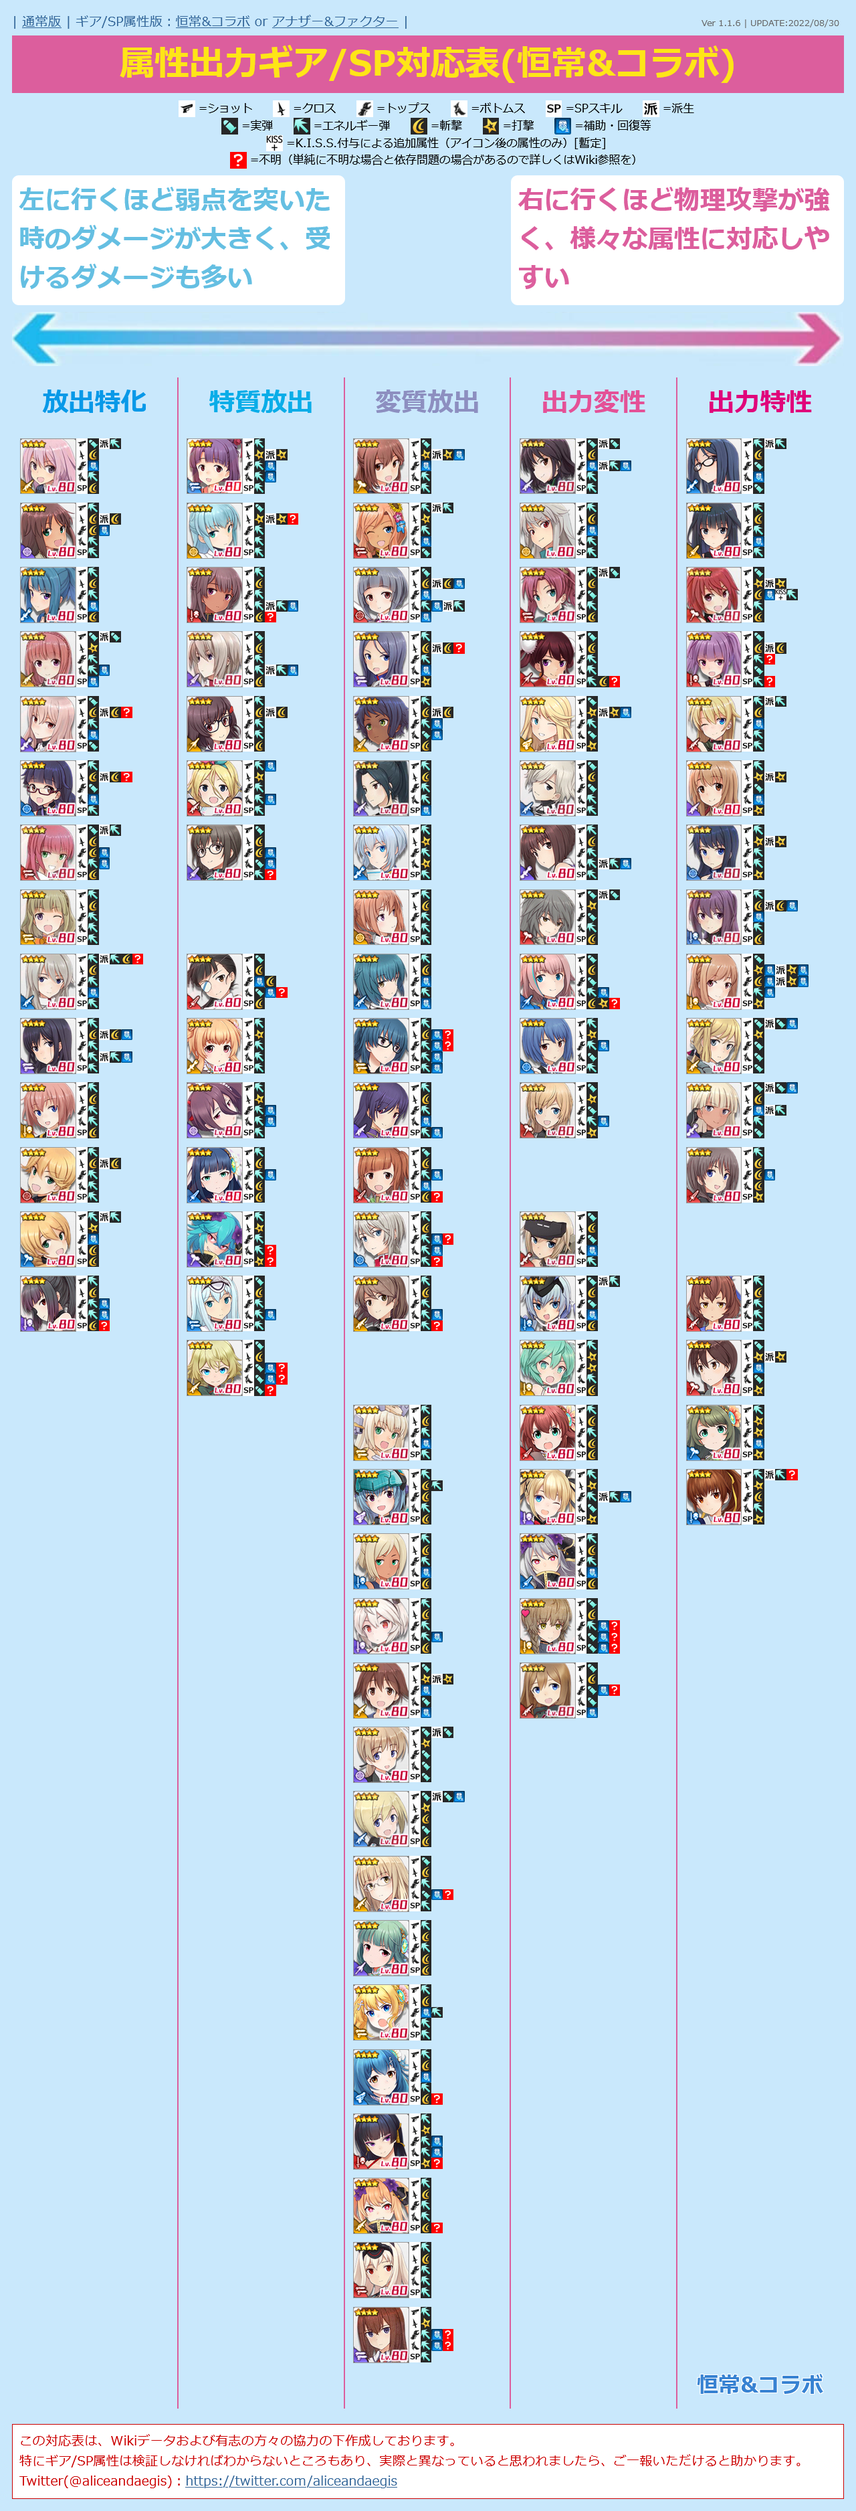
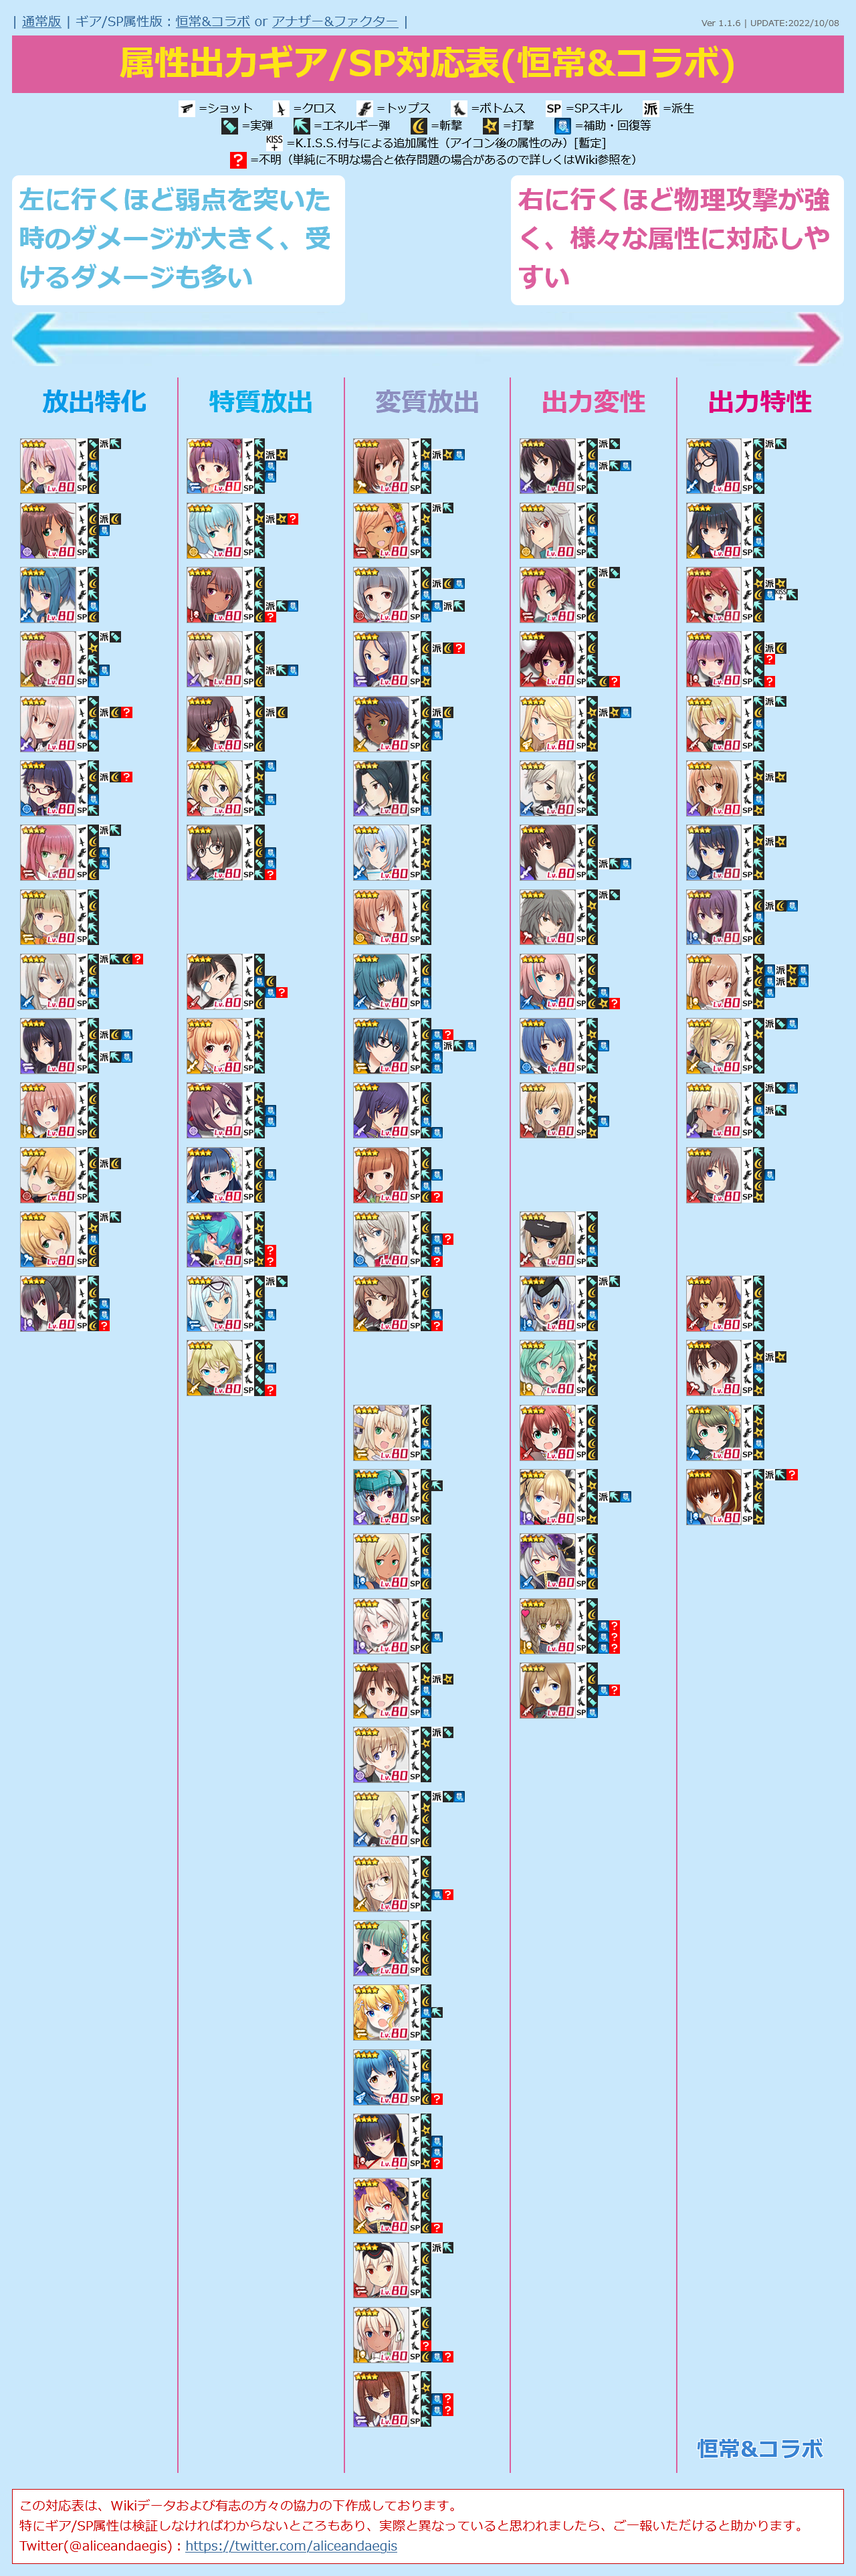
UPDATE charadata
・コラボキャラ　イブリー・ハッドを追加

Changed region(s): [[0.0, 0.0, 1.0, 0.9979], [0.8125, 0.9355, 0.9688, 0.9667]]

diff --git a/alice.html b/alice.html
@@ -12,7 +12,7 @@
   <script>
 
 /* 更新情報 必要に応じて書き換えてください */
-  var version = "Ver 1.1.6 | UPDATE:2022/09/21";
+  var version = "Ver 1.1.6 | UPDATE:2022/10/08";
 
 
 /*
@@ -2059,7 +2059,7 @@
       "type": "3",
       "src": "normal-ait.png",
       "name": "AIT Ti2",
-      "equip1": "2",
+      "equip1": "2/2",
       "equip2": "3",
       "equip3": "2",
       "equip4": "2",
@@ -2073,13 +2073,27 @@
       "type": "2",
       "src": "normal-ait-ia.png",
       "name": "AIT / イア・レトナ",
-      "equip1": "1",
+      "equip1": "1/1",
       "equip2": "3",
       "equip3": "2",
       "equip4": "25",
       "sp": "2",
       "attr": "4",
       "link": "https://wikiwiki.jp/alicegear/AIT%E3%80%90%E3%82%A4%E3%82%A2%E3%83%BB%E3%83%AC%E3%83%88%E3%83%8A%E3%80%91",
+      "category": "99"
+    },
+    {
+      "id": "703",
+      "type": "3",
+      "src": "normal-ivry.png",
+      "name": "イブリー・ハッド",
+      "equip1": "2",
+      "equip2": "3",
+      "equip3": "2",
+      "equip4": "?",
+      "sp": "35?",
+      "attr": "1",
+      "link": "https://wikiwiki.jp/alicegear/%E3%82%A4%E3%83%96%E3%83%AA%E3%83%BC%E3%83%BB%E3%83%8F%E3%83%83%E3%83%89",
       "category": "99"
     },
 
@@ -2118,8 +2132,8 @@
       "name": "ターニャ・デグレチャフ",
       "equip1": "1",
       "equip2": "3",
-      "equip3": "15?",
-      "equip4": "15?",
+      "equip3": "15",
+      "equip4": "1",
       "sp": "1?",
       "attr": "1",
       "link": "https://wikiwiki.jp/alicegear/%E3%82%BF%E3%83%BC%E3%83%8B%E3%83%A3%E3%83%BB%E3%83%87%E3%82%B0%E3%83%AC%E3%83%81%E3%83%A3%E3%83%95",
